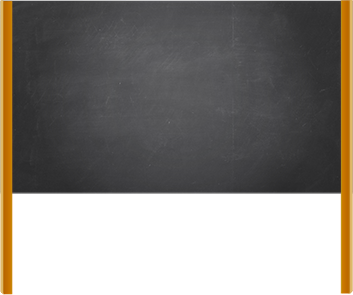
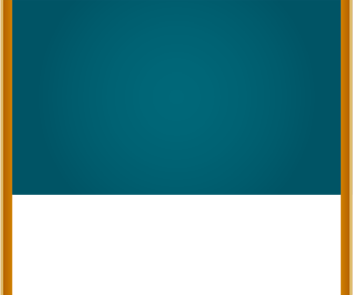
update background

diff --git a/public/index.html b/public/index.html
@@ -1,6 +1,7 @@
 <!DOCTYPE html>
 <html>
 <head>
+  <meta name="theme-color" content="#90c9eb">
   <meta name="viewport"
     content="width = device-width, initial-scale = 1.0, minimum-scale = 1, maximum-scale = 1, user-scalable = no, viewport-fit=cover,minimal-ui" />
     <script src="./lib/phaser.min.js"></script>
@@ -10,7 +11,9 @@
         body {
           height: 100%;
           margin: 0;
-          background-color: #fff;
+          /* background-color: #fff; */
+          background-image: url("assets/img/background/sky.png");
+          background-position: center; 
         }
         
       </style>
